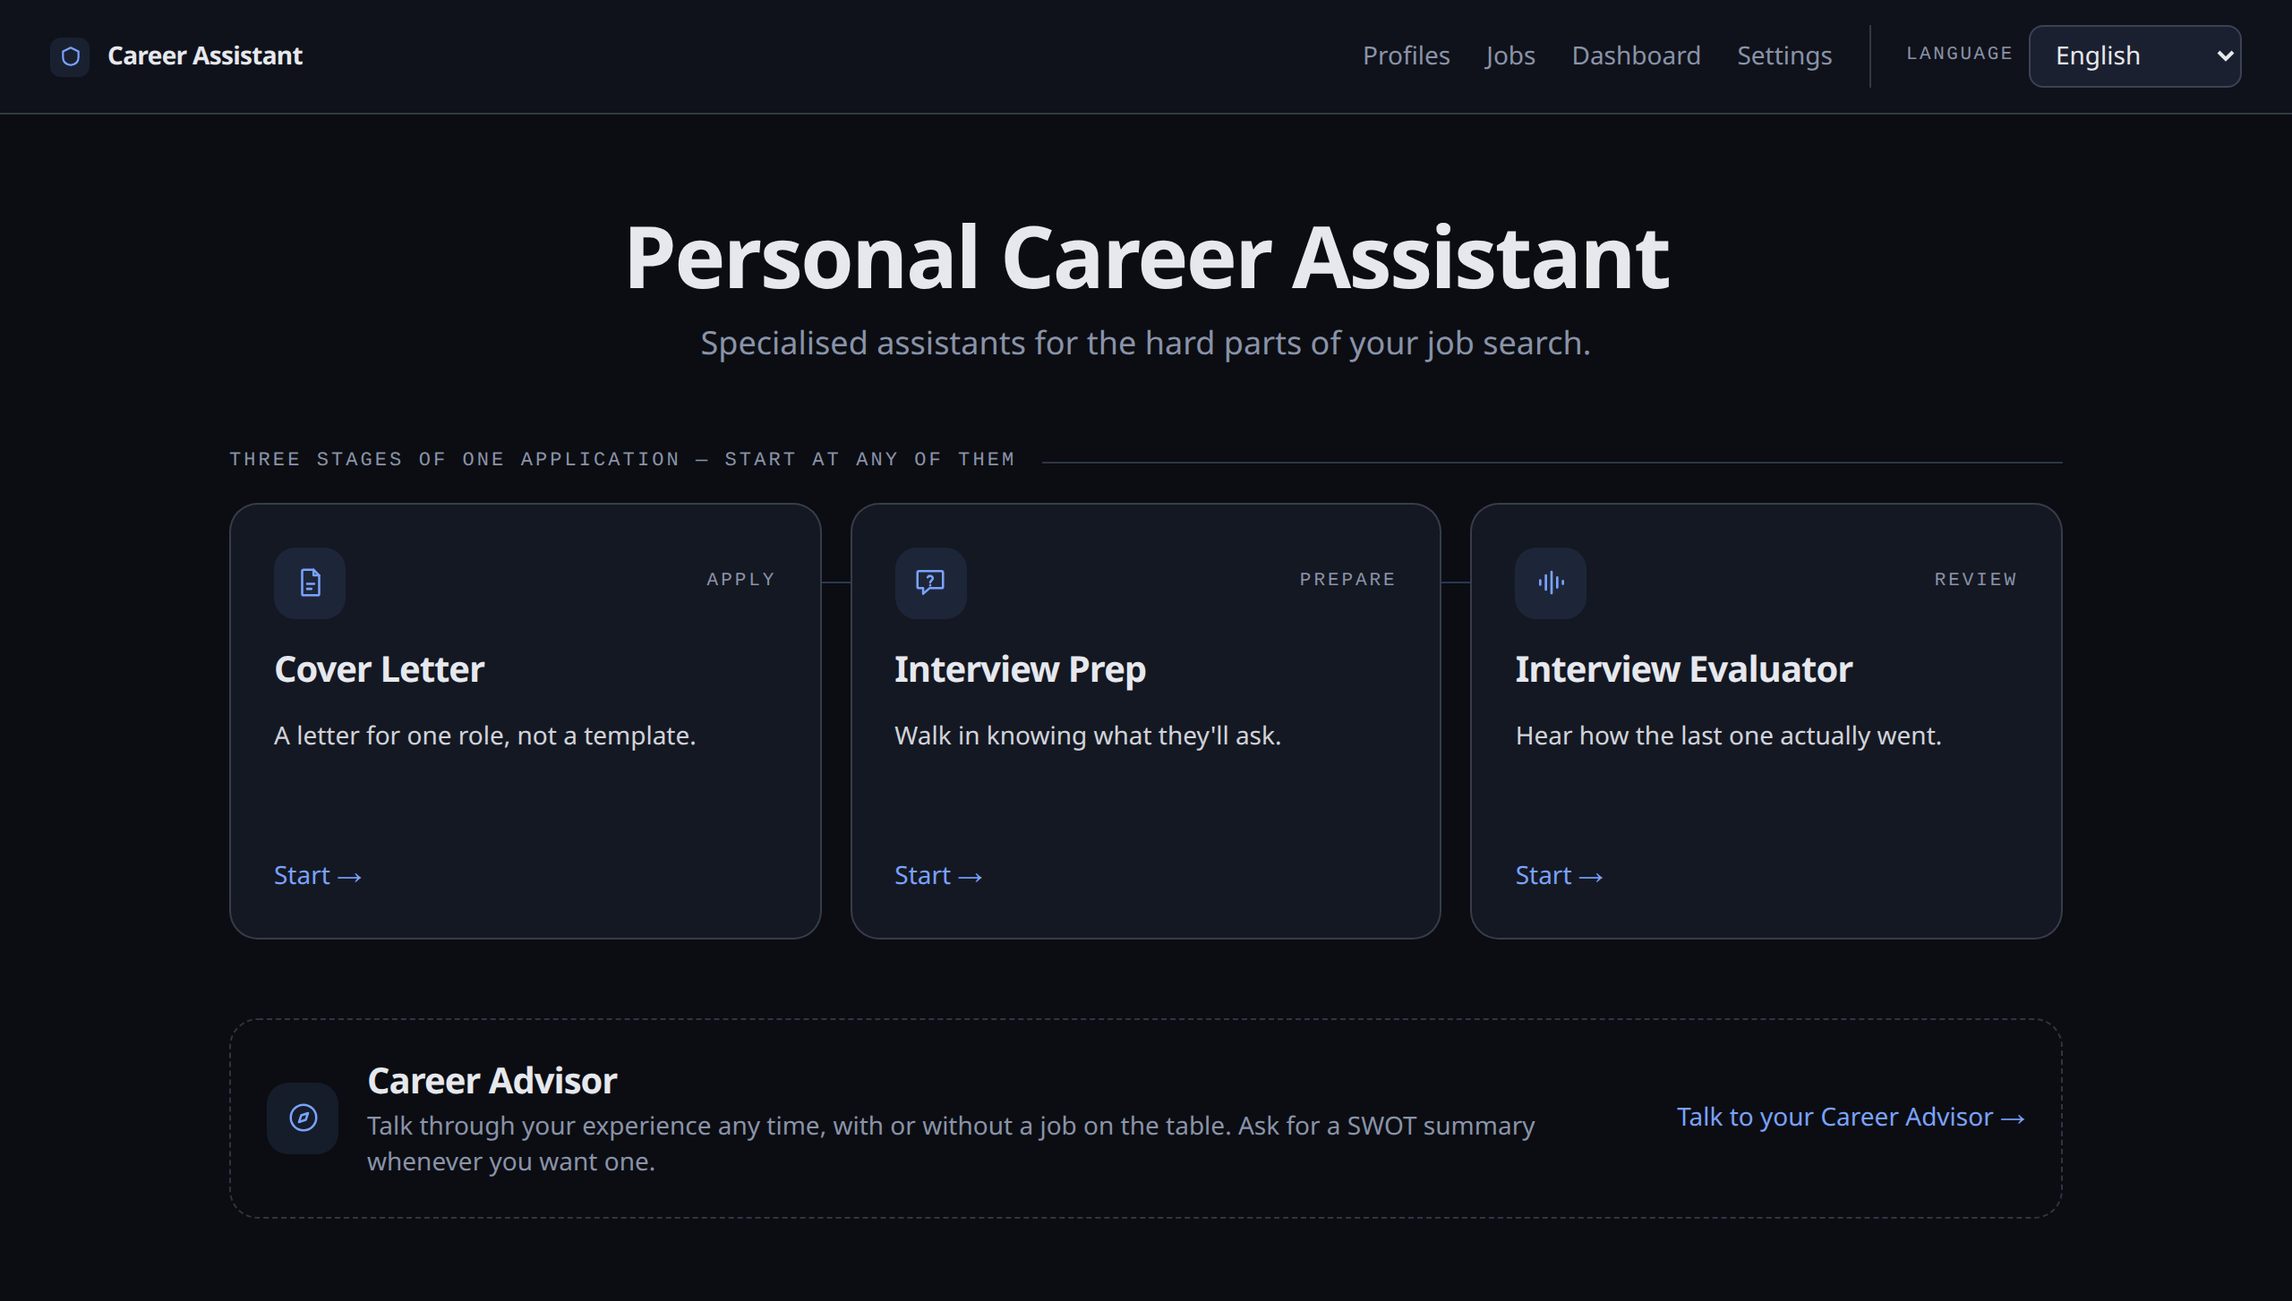
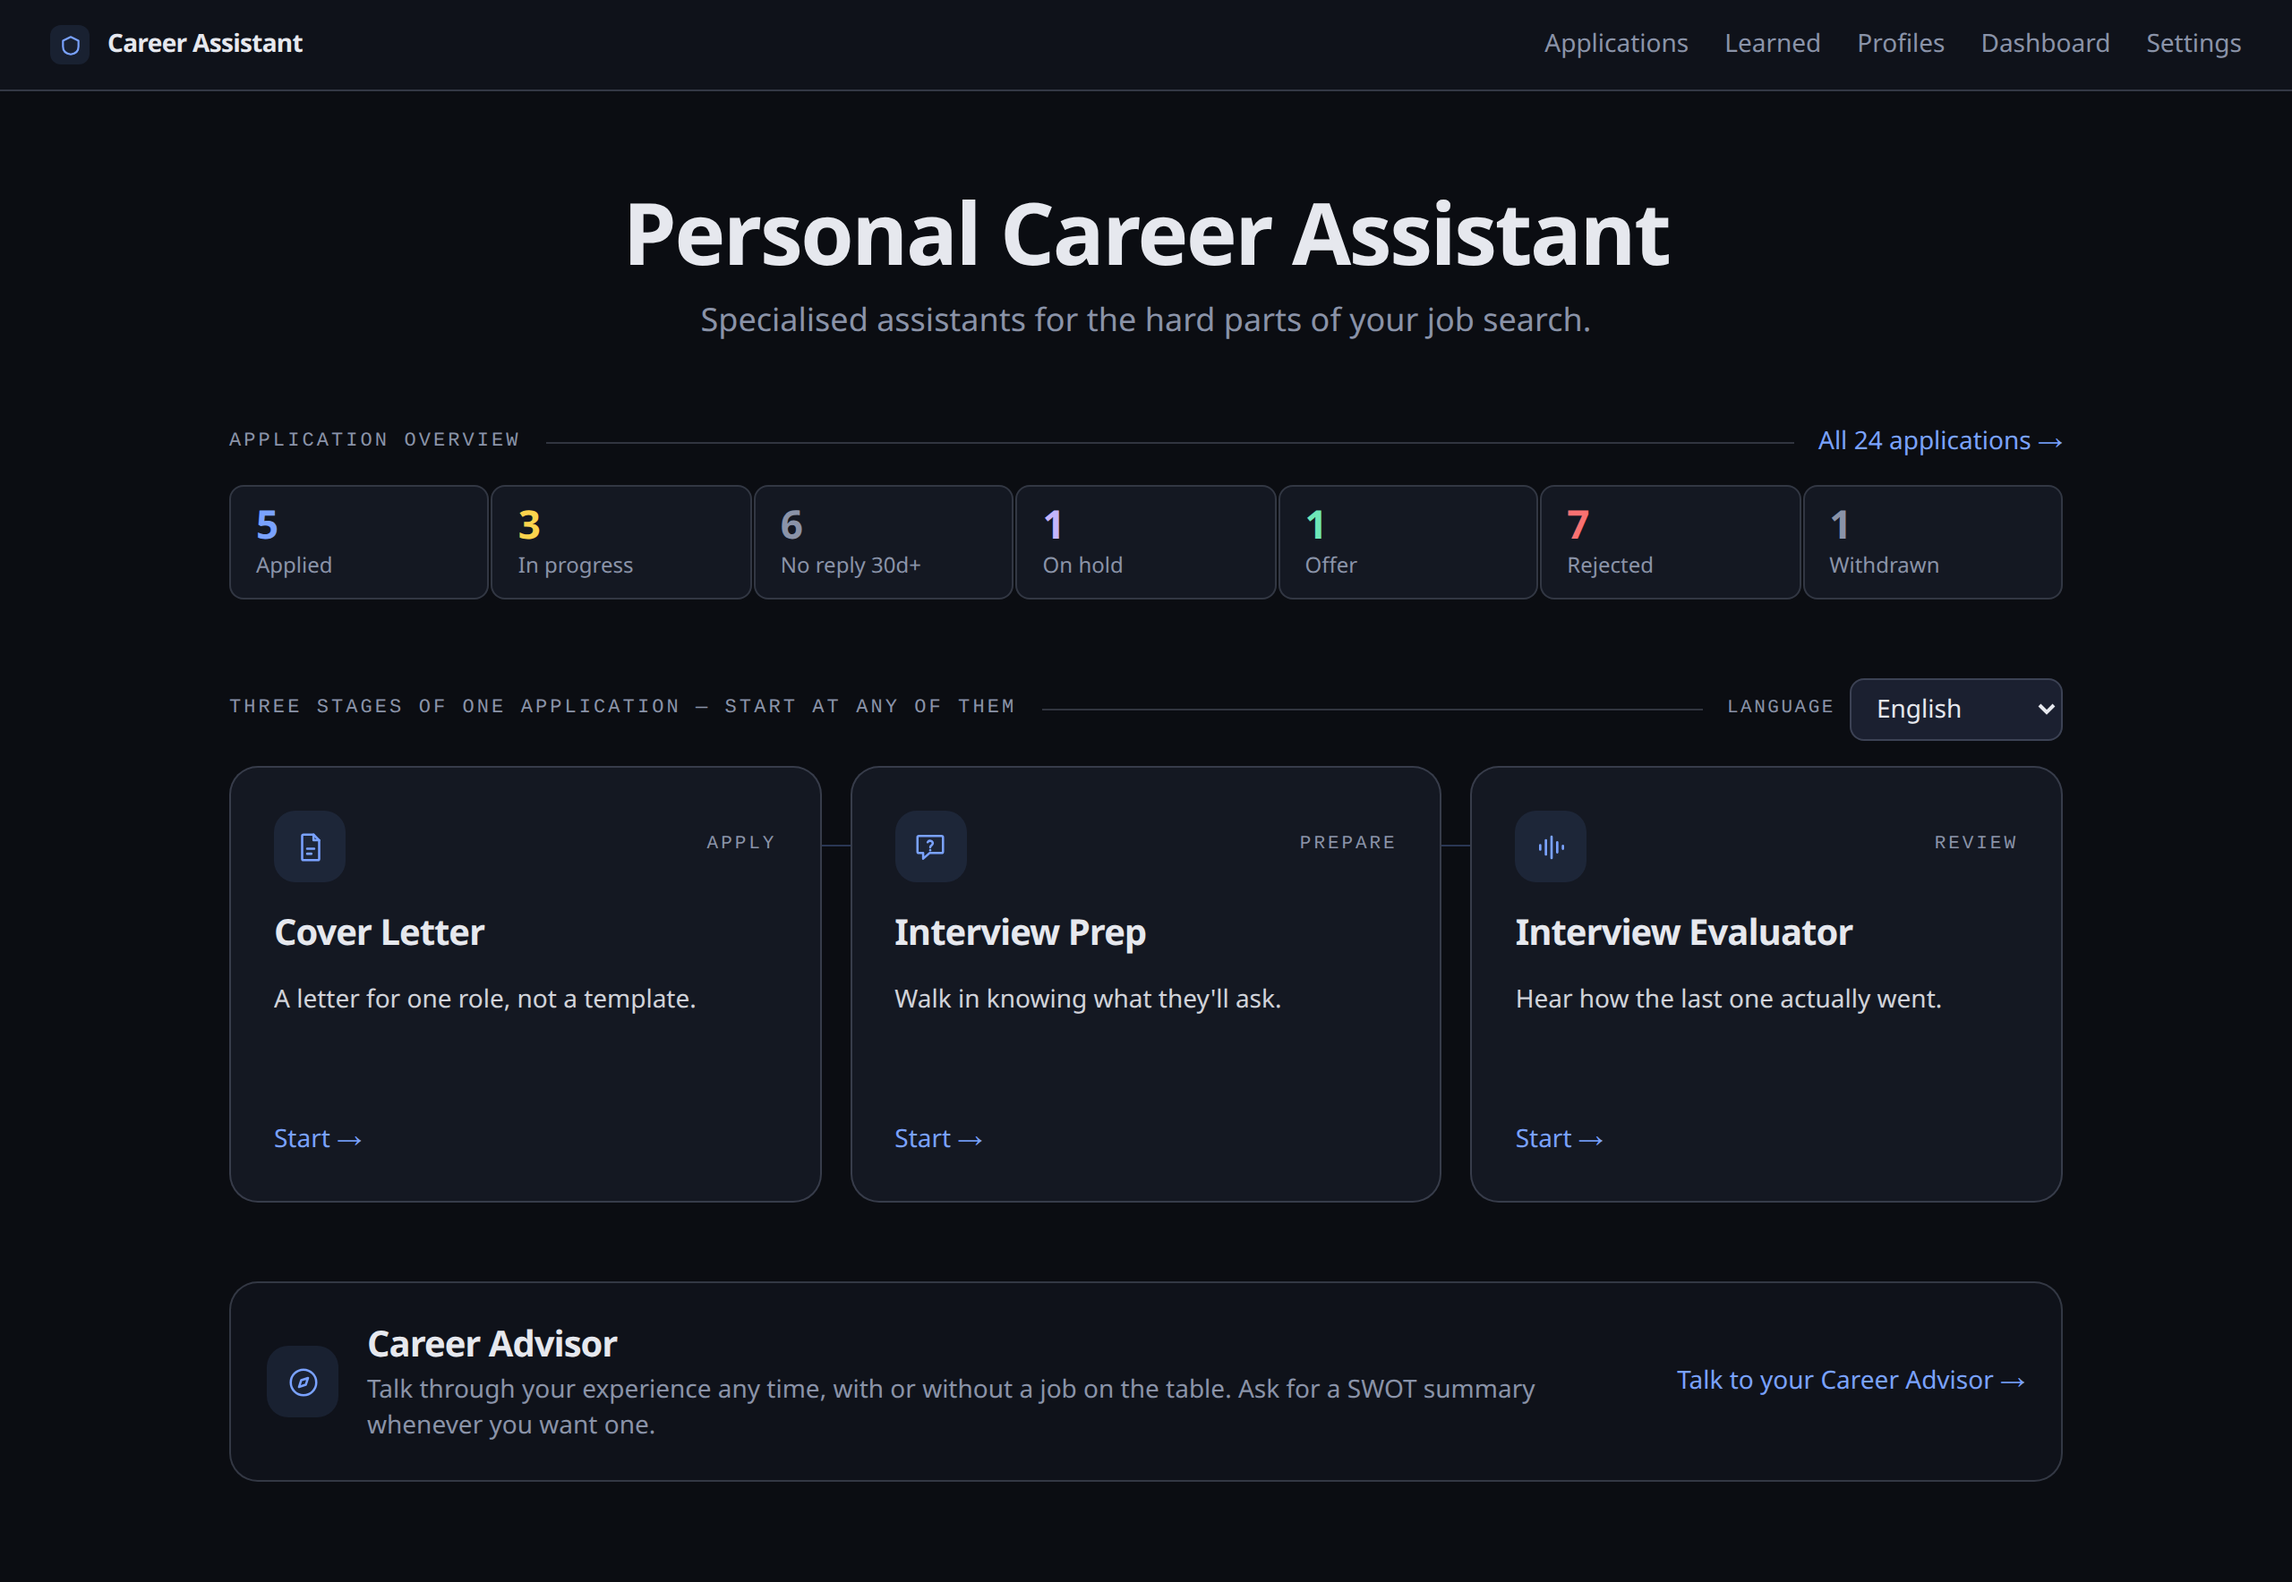
docs: reshoot the landing page and describe the status strip
The screenshot predated the status strip entirely, and still showed the old
nav and the dashed Career Advisor.

Reshot against a throwaway seeded database rather than the real one, so a
public README does not publish the state of an actual job search. The counters
are still derived by journeys_summary() from the seeded dates, so the picture
is one the app computes rather than one drawn by hand.

Also names the Applications page as the nav now labels it, and adds a bullet
for the landing overview — including that status follows the dates on an
application rather than a field to maintain.

diff --git a/README.md b/README.md
@@ -48,7 +48,7 @@ public internet as-is**; it has no auth layer and isn't hardened for multi-user 
 
 ## Screenshots
 
-**Landing page** — pick an assistant and start a conversation.
+**Landing page** — where the whole search stands, then pick an assistant and start a conversation.
 
 ![Landing page](docs/screenshots/landing-page.png)
 
@@ -105,8 +105,13 @@ is skipped.
   version so you can pick the winner.
 - **Job journeys — pick up where you left off** — every job you work on is saved with its artifacts
   (strategy, cover letter, interview briefing, evaluation). A new session offers to continue a saved
-  job instead of starting over, and the Jobs page lists them all with search, sort, and per-artifact
-  dates.
+  job instead of starting over, and the Applications page lists them all with search, sort, and
+  per-artifact dates.
+- **The whole search at a glance** — the landing page opens on a breakdown of every application by
+  status (applied, in progress, no reply, on hold, offer, rejected, withdrawn), pooled across
+  profiles, and each count is a link into that filtered list. Status is derived from the dates on
+  the application rather than a field you maintain, so a job you applied to moves itself into "no
+  reply" once it has been quiet past your threshold.
 - **Interview rounds** — one job usually means several interviews (recruiter, screening, hiring
   manager, technical, panel, final). Each round is tracked separately, so the briefing Interview
   Prep wrote for a round is matched to the recording the Evaluator scores afterwards, and exported
